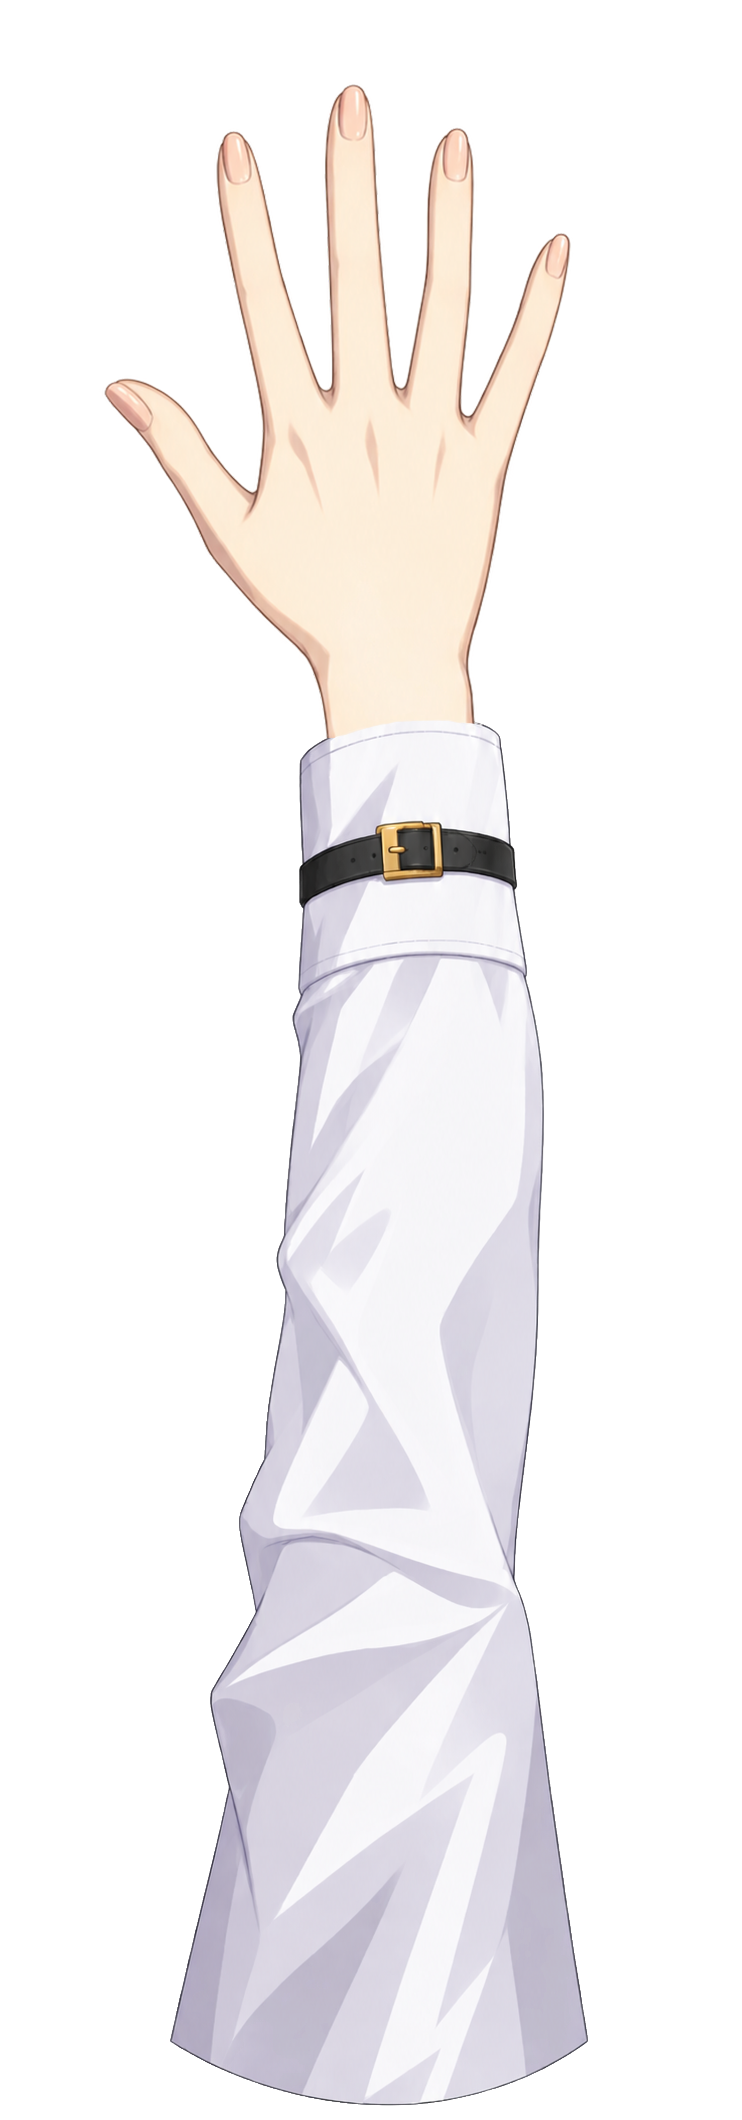
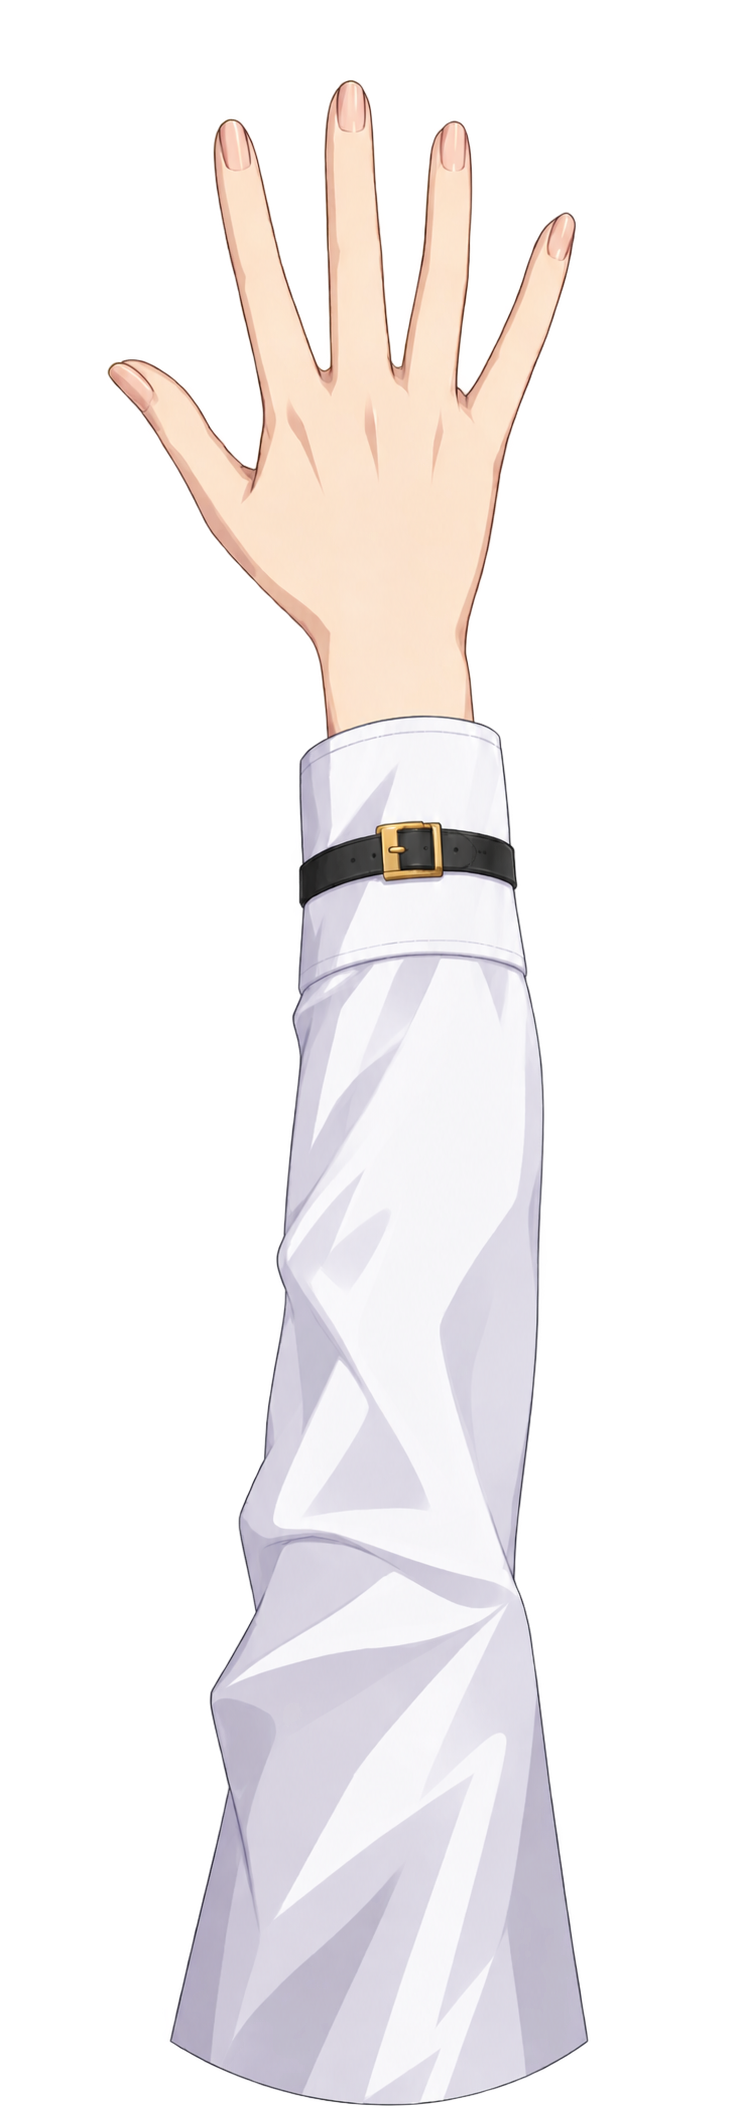
feat(character): 角色手臂 RPS 主题贴图

diff --git a/Scripts/Character/FgoCharacter.cs b/Scripts/Character/FgoCharacter.cs
@@ -77,16 +77,16 @@ public class FgoCharacter : ModCharacterTemplate<FgoCardPool, FgoRelicPool, FgoP
                 // 过渡音效
                 // CharacterTransitionSfx: "event:/sfx/ui/wipe_ironclad"
             ),
-            // Multiplayer: new CharacterMultiplayerAssetSet(
+            Multiplayer: new CharacterMultiplayerAssetSet(
             // 多人模式-手指。
-            // ArmPointingTexturePath: null,
+            ArmPointingTexturePath: "res://Fgo/images/charui/point.png",
             // 多人模式剪刀石头布-石头。
-            // ArmRockTexturePath: null,
+            ArmRockTexturePath: "res://Fgo/images/charui/rock.png",
             // 多人模式剪刀石头布-布。
-            // ArmPaperTexturePath: null,
+            ArmPaperTexturePath: "res://Fgo/images/charui/paper.png",
             // 多人模式剪刀石头布-剪刀。
-            // ArmScissorsTexturePath: null
-            // )
+            ArmScissorsTexturePath: "res://Fgo/images/charui/scissors.png"
+            ),
             // 其余如果有需要自行取消注释使用
             // Spine: null,
             // VisualCues: null, // 帧动画静态图人物使用，查看角色动画一章
